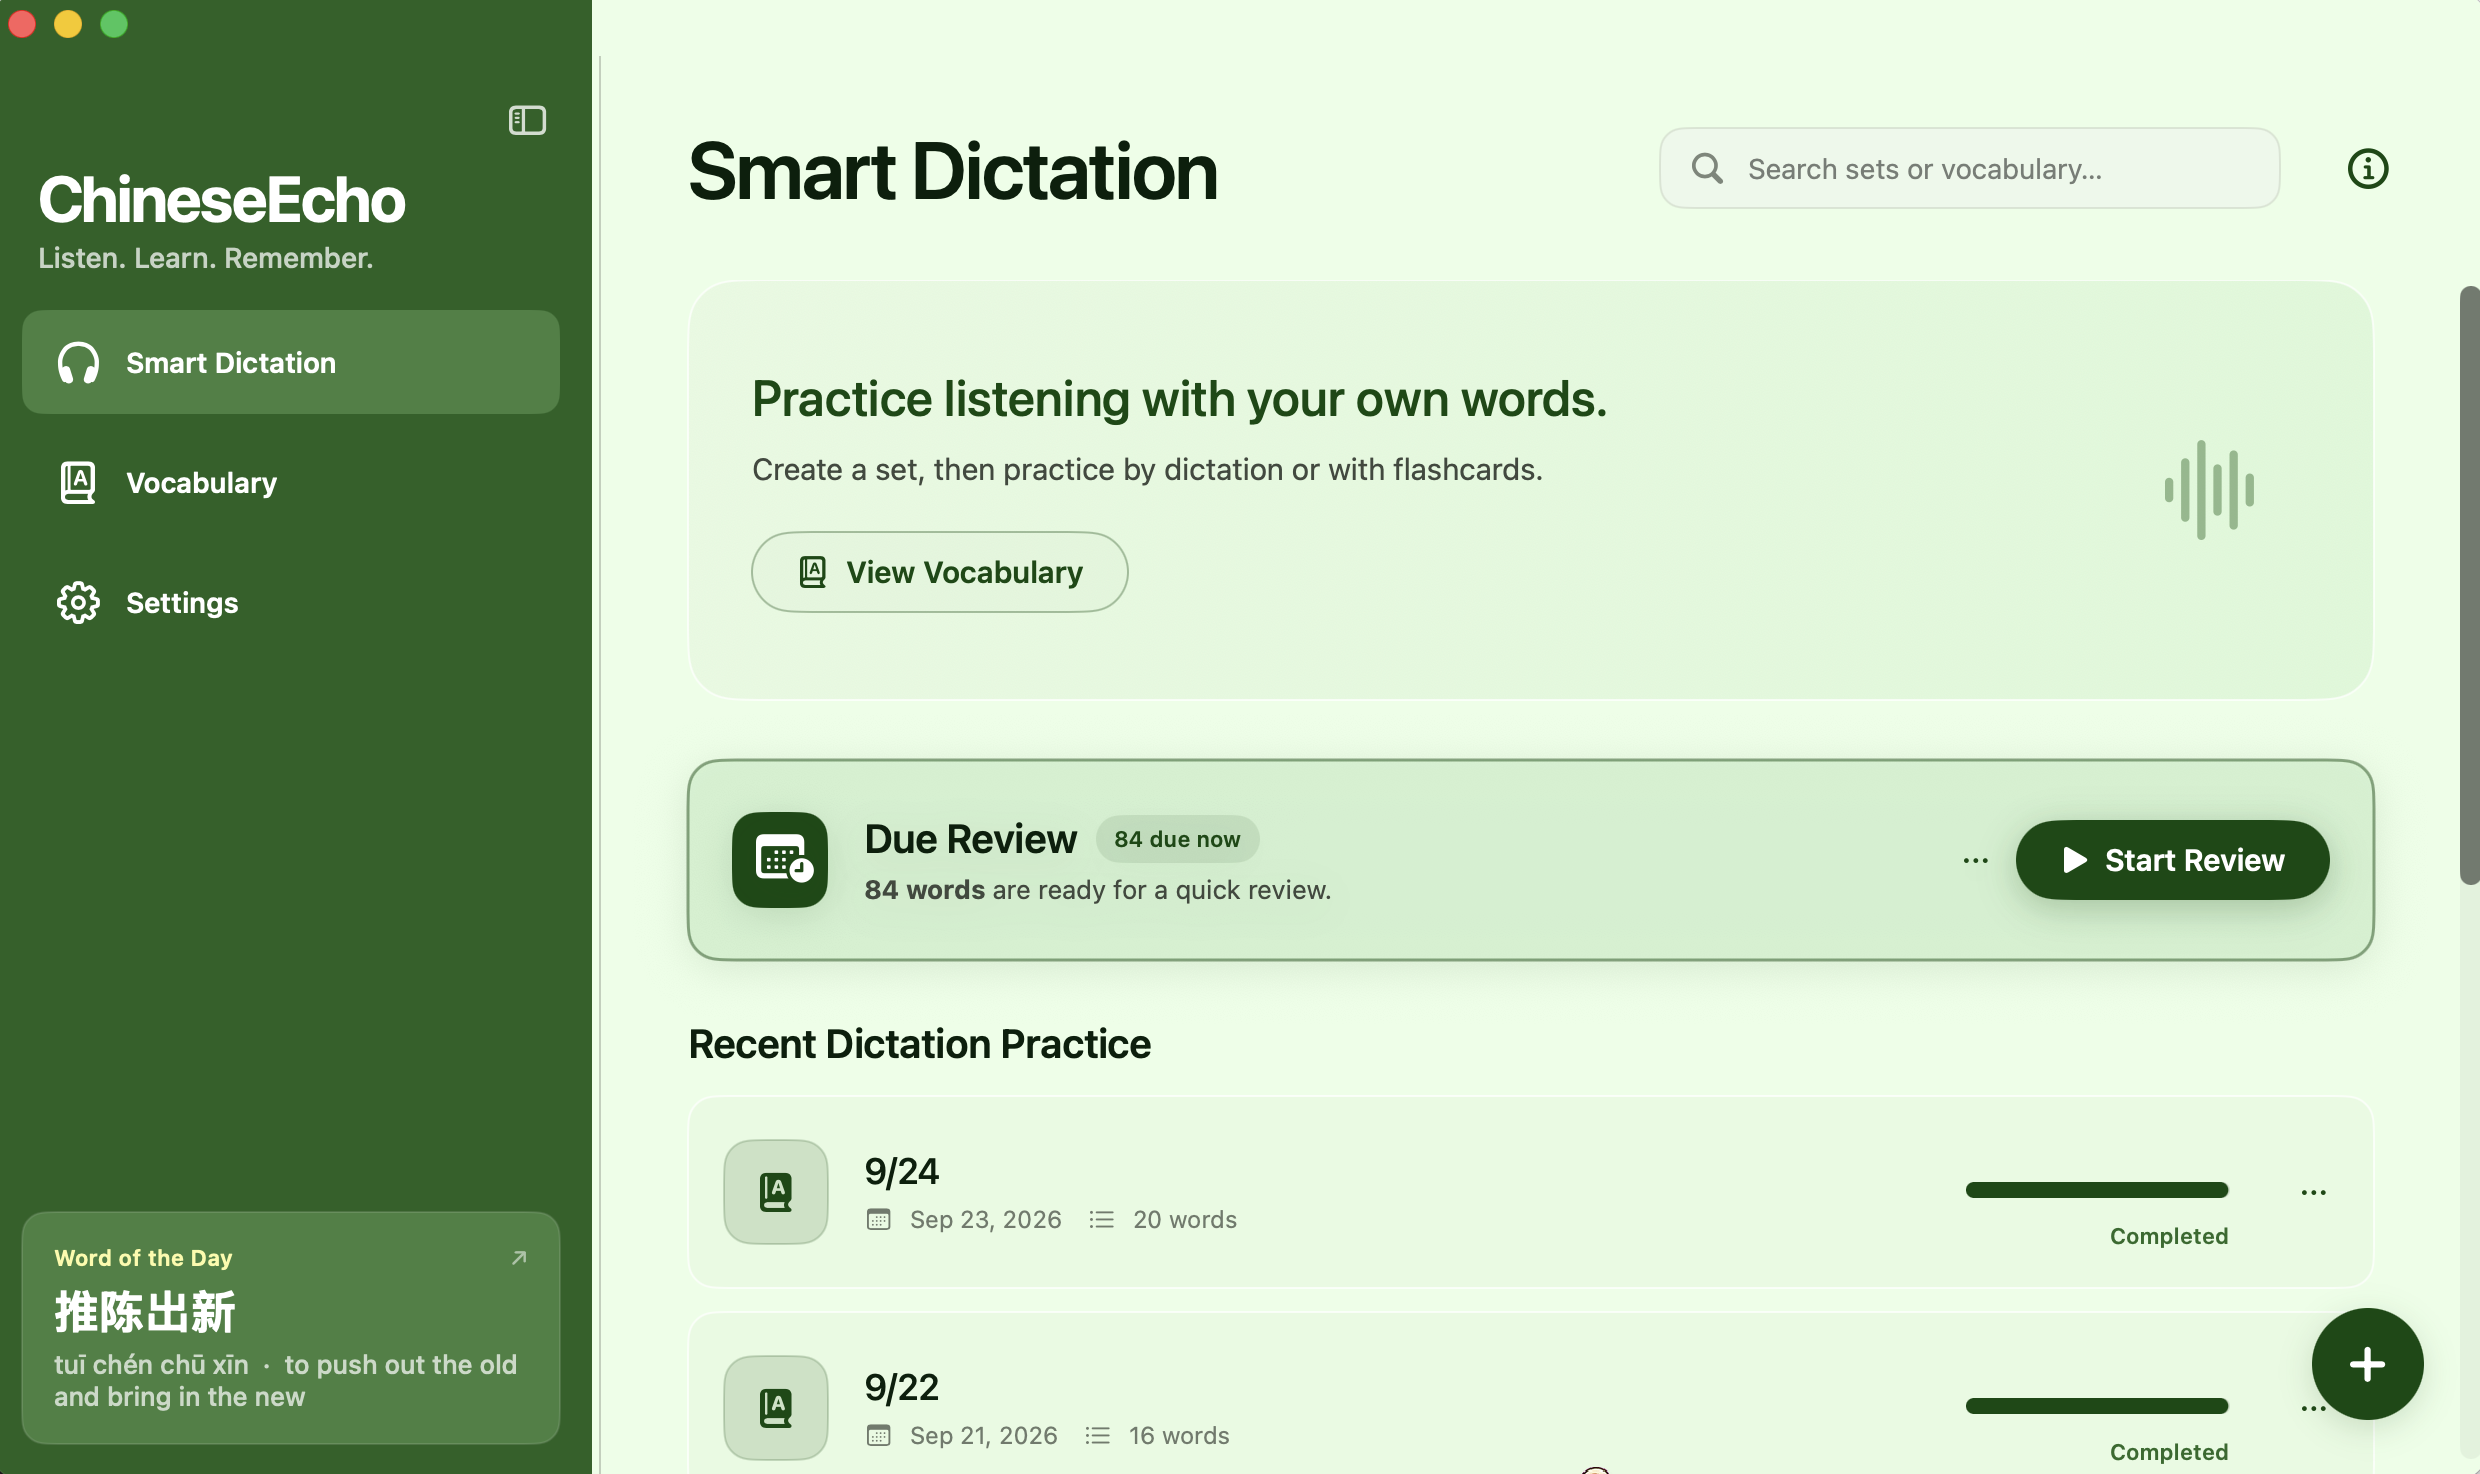
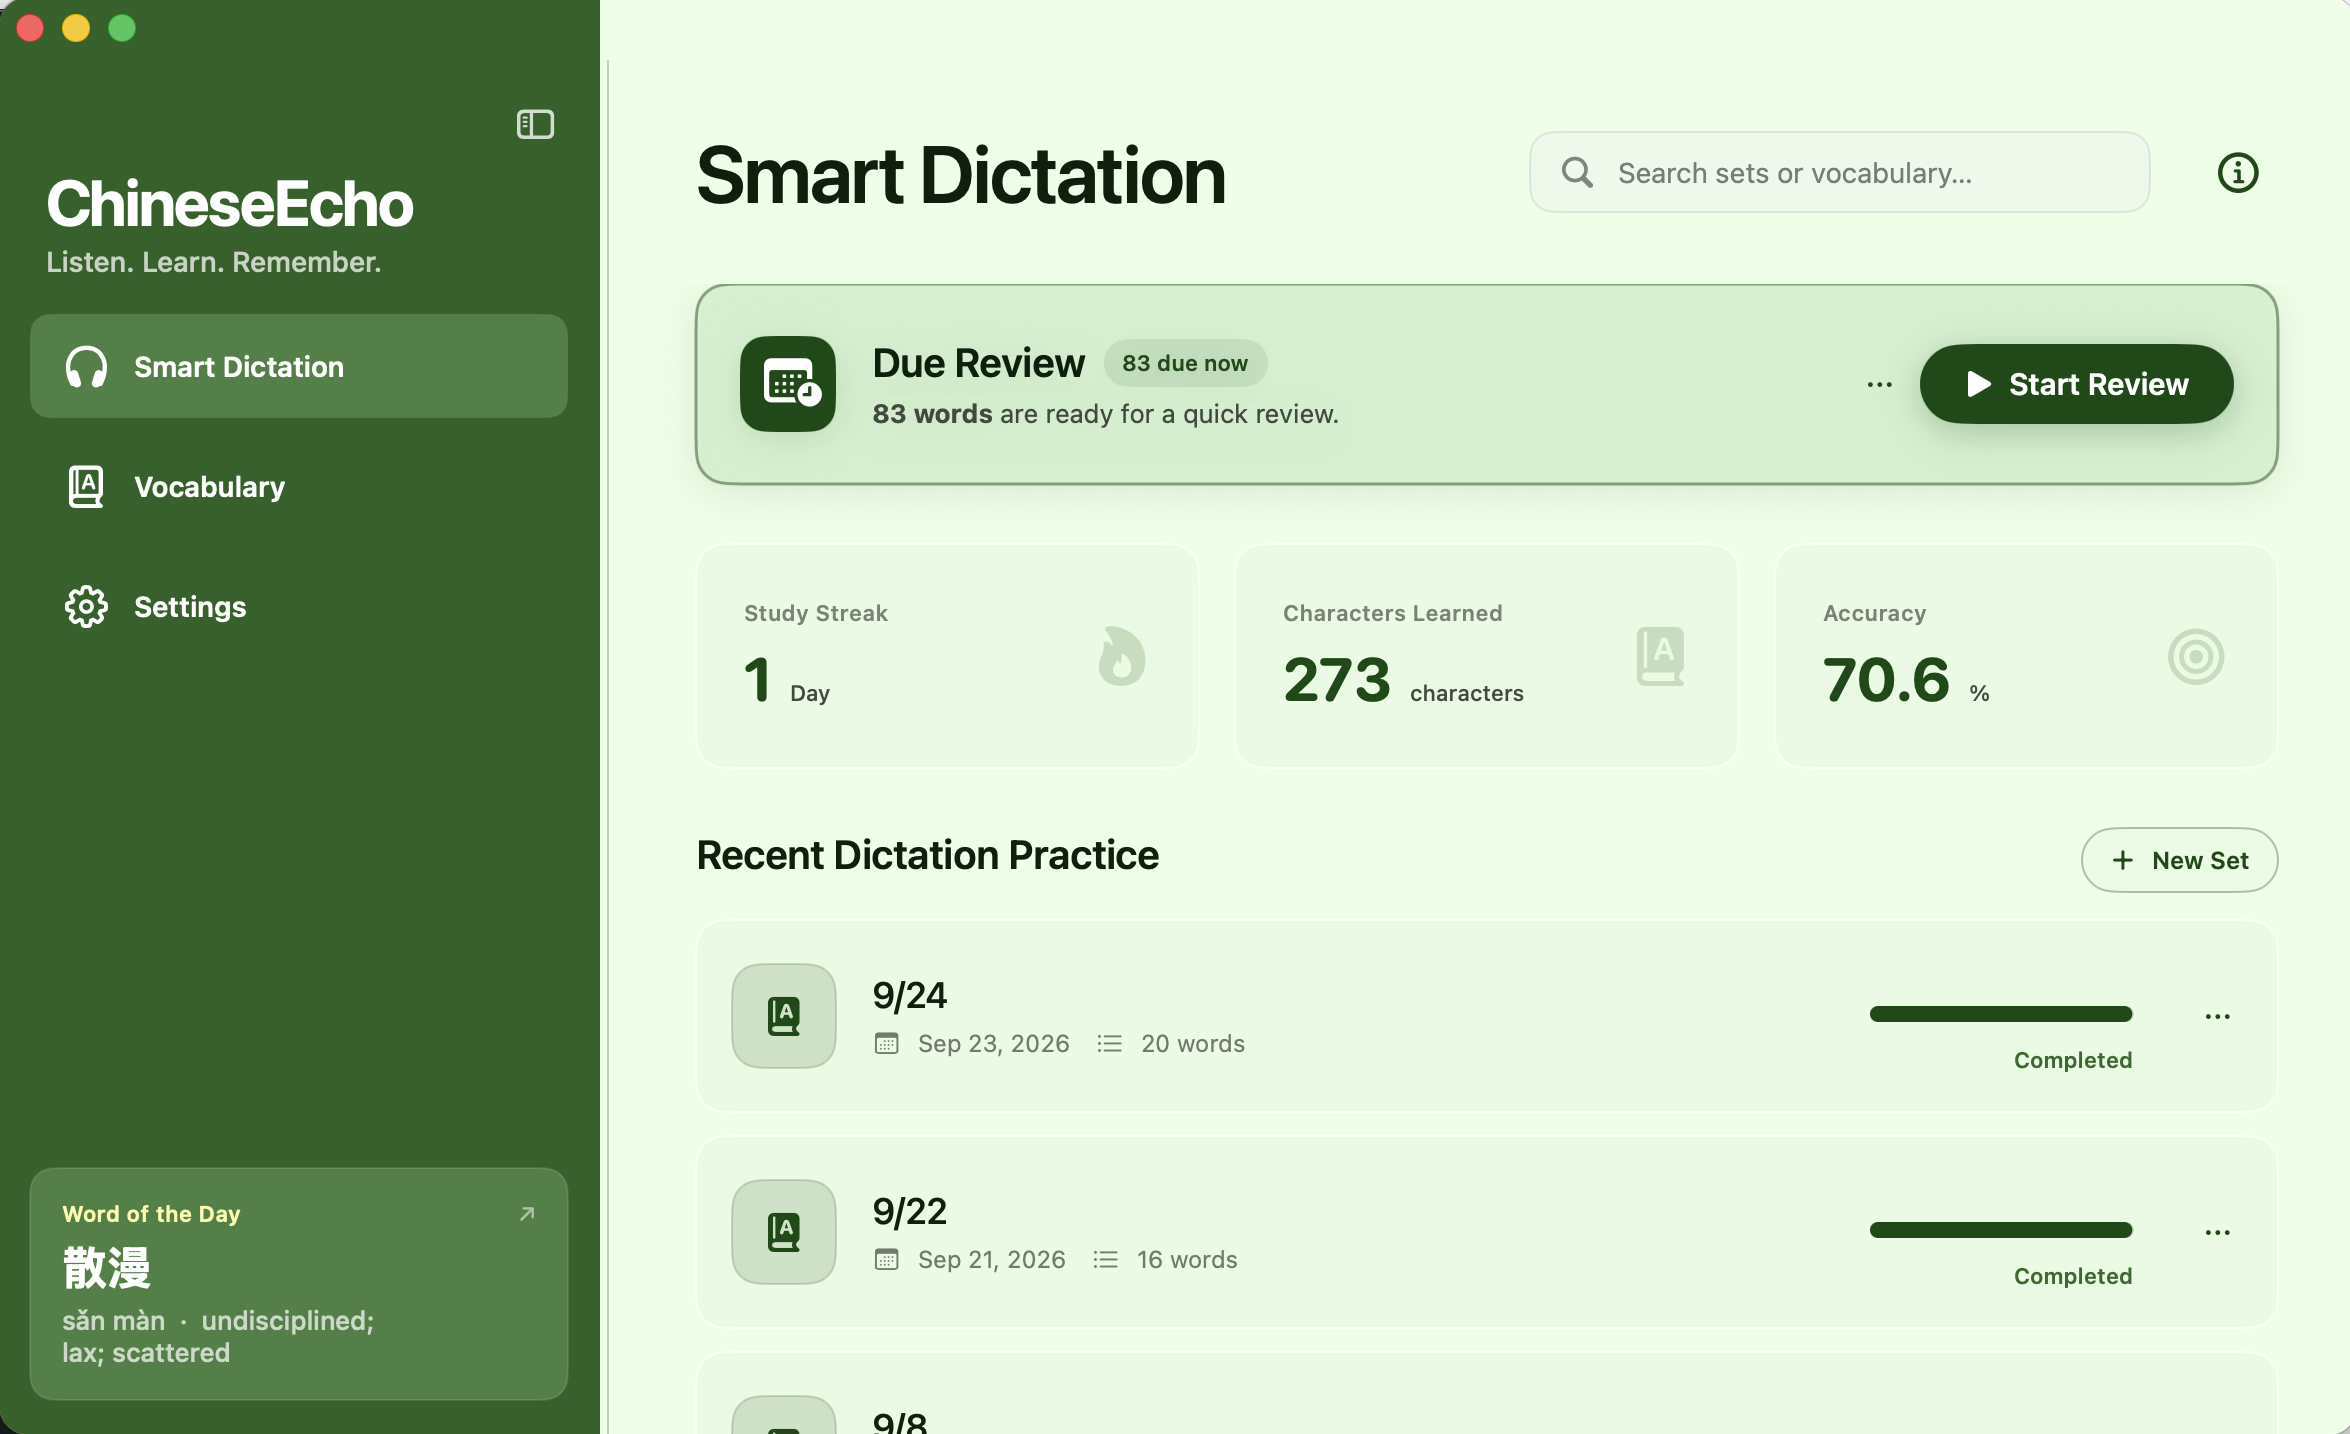
docs(site): replace landing page hero image

diff --git a/CHANGELOG.md b/CHANGELOG.md
@@ -164,3 +164,5 @@
 - **2026-09-21**: Added a subtle full-row hover highlight to the Missed Words list while preserving its stronger selected-row treatment. Files edited: `ChineseEcho/Views/VocabularyHubView.swift`, `CHANGELOG.md`.
 
 - **2026-09-21**: Fixed Dictation Shuffle becoming unavailable after the first spoken word by allowing the unplayed queue to be reordered throughout listening and guaranteeing a visibly different order when multiple words remain. Files edited: `ChineseEcho/Views/ContinuousDictationView.swift`, `CHANGELOG.md`.
+
+- **2026-10-13**: Replaced the landing-page Smart Dictation hero screenshot and updated its intrinsic dimensions. Files edited: `docs/assets/images/smart-dictation-dashboard.png`, `docs/index.md`, `CHANGELOG.md`.

diff --git a/docs/index.md b/docs/index.md
@@ -26,7 +26,7 @@ description: Practice Chinese listening, vocabulary, and review in a private nat
   </div>
   <div class="hero-art">
     <div class="hero-icon-halo" aria-hidden="true"></div>
-    <img class="hero-screenshot" src="{{ '/assets/images/smart-dictation-dashboard.png' | relative_url }}" alt="ChineseEcho Smart Dictation dashboard showing due review and recent practice sets" width="2480" height="1474" decoding="async" fetchpriority="high">
+    <img class="hero-screenshot" src="{{ '/assets/images/smart-dictation-dashboard.png' | relative_url }}" alt="ChineseEcho Smart Dictation dashboard showing due review and recent practice sets" width="2350" height="1434" decoding="async" fetchpriority="high">
   </div>
 </section>
 
